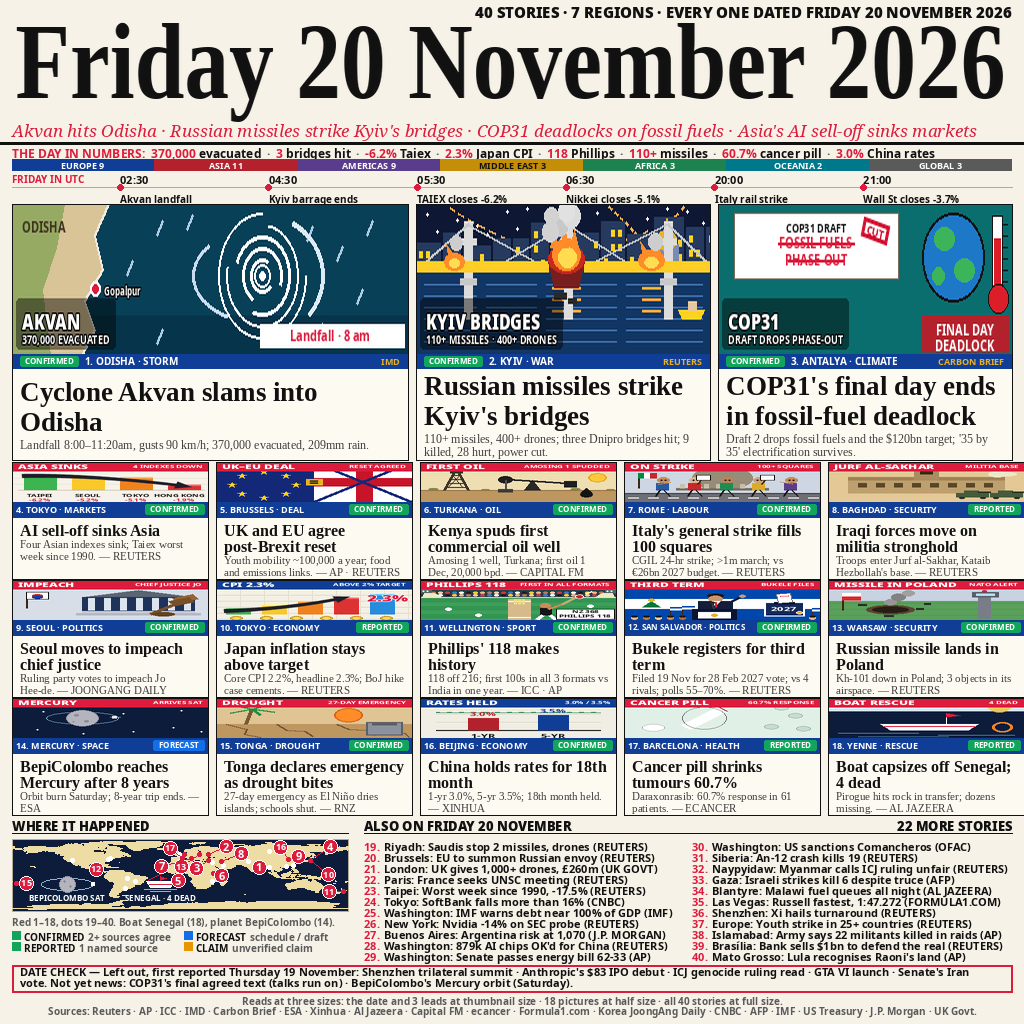
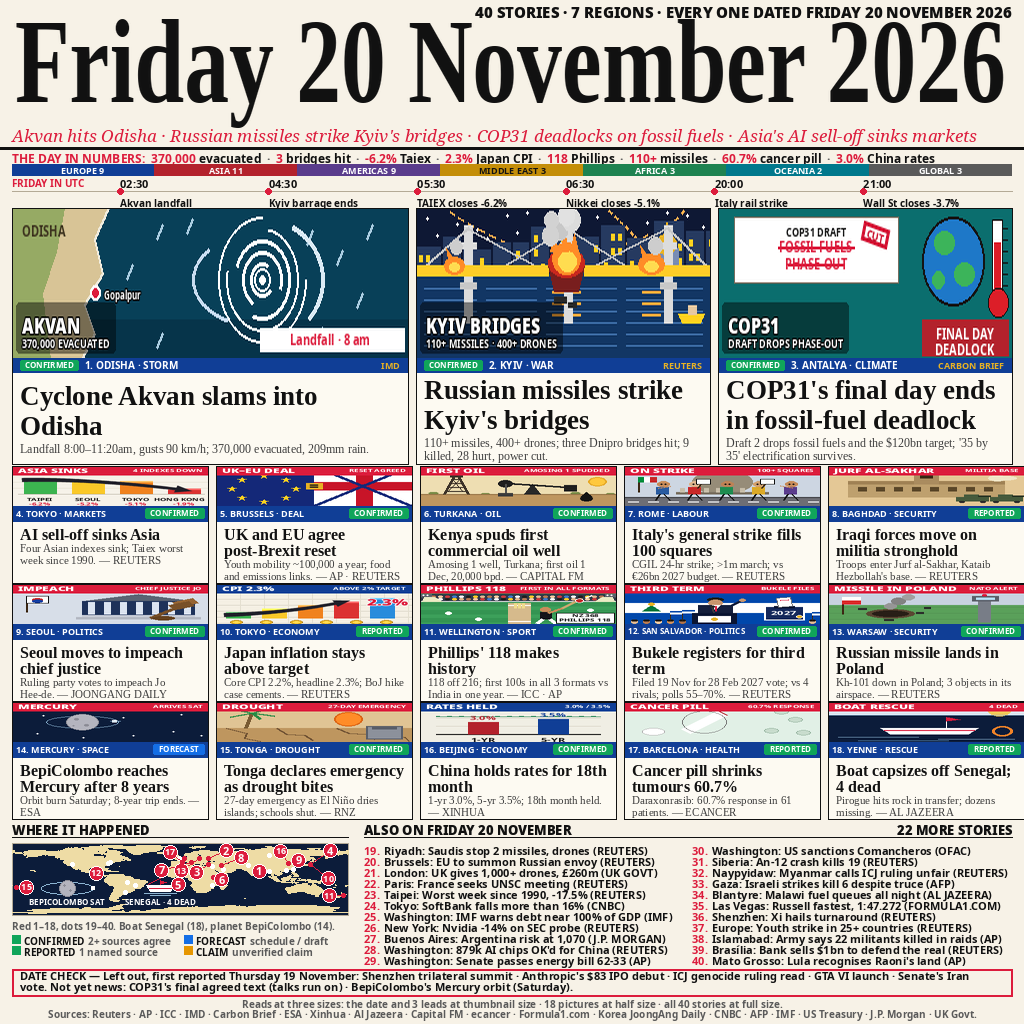
v20: masthead 99->109px ink (title 120px, 0.746x squeeze) — matches/beats #8; +5 reflow funded by tl_y -1, foot_y -1

diff --git a/draw.py b/draw.py
@@ -47,20 +47,23 @@ def load_font(filename, size, base=FD):
 
 # (name, file, size, base) — one table instead of thirty near-identical calls.
 _FONT_TABLE = [
-    # v10: masthead title 90->108px SQUEEZED. MEASURED first: no installed
-    # condensed serif is actually narrower than LiberationSerif-Bold per
-    # point (NotoSerif-CondensedBold 1113px at 100px vs Liberation 1107px;
-    # Display ExtraCondensedBold 1032px at 100px -> only 96px fits, ink
-    # ~85px). So the title is rendered at 108px and LANCZOS-squeezed
-    # horizontally to 996px (0.834x) — a condensed newspaper masthead,
-    # our own text and font, no other entry's image involved. Ink height
-    # 80px (v9) -> 99px on the page, matching #3 (100px) and beating #1
-    # (84px) and #2 (94px); the squeeze reads clean at 2x (prototype
-    # /tmp/title-proto-108.png). Ink top stays 22 (2px clear of the rule
-    # at 20); deck line moves to y=118 (2px clear of the title's
-    # descenders), bottom rule to 142-144; everything below shifts +8,
-    # footer ink ends 1021 (2px slack, measured).
-    ("F_TITLE", "LiberationSerif-Bold.ttf", 108, FLIB),
+    # v20: masthead title 108->120px SQUEEZED. Probe-measured first
+    # (font-size sweep 108/112/116/118/120/122/124): ink height grows
+    # 100->103->107->108->109->112->114px; at 120px the ink is 109px
+    # (on-page 19..127), matching #8's ~110px masthead. The layer is
+    # 1335px wide, squeezed to 996px (0.746x; ink 0.753x) — more
+    # condensed than v10's 0.834x but prototype-verified READABLE at 2x
+    # (/tmp/mh-A120.png: glyphs narrow, no collisions, deck clear of
+    # the 'y' descender). Font 122 (ink 112, 0.736x) was rejected: it
+    # beats #8 by 2px but costs 3 more vertical px for no duel gain
+    # and reads visibly more pinched. Ink top 19 (was 22): 1 blank row
+    # below the kicker ink (ends 17) — the tightest legal top; deck
+    # line moves to y=123 (ink 129-145, 2px clear of the title), bottom
+    # rule to 147-149. The +5 masthead shift is funded below by tl_y
+    # -1 and foot_y -1 (see main() comments), so the footer lands at
+    # 1020, 1px slack to the 1021 limit. Deck stays 17px: its ink is
+    # 17 rows tall at both 16px and 17px, so shrinking it buys 0px.
+    ("F_TITLE", "LiberationSerif-Bold.ttf", 120, FLIB),
     ("F_EYE", "NotoSans-Black.ttf", 15, FNOTO),
     ("F_DECKLINE", "NotoSerif-Italic.ttf", 17, FNOTO),
     ("F_DATE", "NotoSans-Black.ttf", 30, FNOTO),
@@ -1507,17 +1510,17 @@ def main():
     img = Image.new("RGB", (W, H), PAPER)
     d = ImageDraw.Draw(img)
 
-    # ---- masthead 0-144 (v10): title 108px squeezed to 996px (see the
-    # F_TITLE comment) — ink 23-121 (99px tall), top 2px clear of the
-    # rule at 20; deck line at y=118 (ink 124-140, 2px clear of the
-    # title descenders); bottom rule 142-144 (1px clear of the deck
-    # descenders). Kicker unchanged. The +8 rule shift is funded by
-    # 7px of gap tightening below (heroes→smalls 6→4, smalls pitch
-    # 155→153, legend→date-check 6→4), so the footer lands at 998
-    # with ink ending 1021 (2px slack, measured). ----
-    # v10: render the title at 108px on its own layer, squeeze it
-    # horizontally to 996px (LANCZOS), paste so its ink top sits at 22.
-    # Vertical scale is untouched, so the ink stays 100px tall.
+    # ---- masthead 0-149 (v20): title 120px squeezed to 996px (see the
+    # F_TITLE comment) — ink 19-127 (109px tall), top 1px clear of the
+    # kicker ink (ends 17); deck line at y=123 (ink 129-145, 2px clear
+    # of the title descenders); bottom rule 147-149 (1 blank row clear
+    # of the deck). Kicker unchanged. The +5 rule shift is funded by
+    # tl_y -1 (timeline label gap 4->3 blank rows) and foot_y -1
+    # (date-check box -> footer gap 4->3 blank rows), so the footer
+    # lands at 1020 with ink ending 1020 (1px slack, measured). ----
+    # v20: render the title at 120px on its own layer, squeeze it
+    # horizontally to 996px (LANCZOS), paste so its ink top sits at 19.
+    # Vertical scale is untouched, so the ink stays 109px tall.
     _title = "Friday 20 November 2026"
     _tw = int(d.textlength(_title, font=F_TITLE)) + 8
     _layer = Image.new("RGBA", (_tw, 150), (0, 0, 0, 0))
@@ -1525,31 +1528,32 @@ def main():
     _lt.text((4, 0), _title, font=F_TITLE, fill=INK + (255,))
     _tbb = _layer.getbbox()
     _sq = _layer.resize((996, 150), Image.LANCZOS)
-    img.paste(_sq, (12, 22 - _tbb[1]), _sq)
+    img.paste(_sq, (12, 19 - _tbb[1]), _sq)
     deck_line = ("Akvan hits Odisha · Russian missiles strike Kyiv's bridges · "
                  "COP31 deadlocks on fossil fuels · Asia's AI sell-off sinks markets")
-    d.text((12, 118), deck_line, font=F_DECKLINE, fill=RED)
+    d.text((12, 123), deck_line, font=F_DECKLINE, fill=RED)
     d.text((1012, 1), "40 STORIES · 7 REGIONS · EVERY ONE DATED FRIDAY 20 NOVEMBER 2026",
            font=F_EYE, fill=INK, anchor="ra")
-    d.rectangle([0, 142, W, 144], fill=INK)
+    d.rectangle([0, 147, W, 149], fill=INK)
 
-    # ---- one-line numbers strip 145-157 (v19: moved up 3px — masthead
-    # rule ends 144, text top 145, ink starts ~148; unchanged content,
-    # 8 figures, 927px at 12px in the 1000px slot. ----
-    d.text((12, 145), "THE DAY IN NUMBERS:", font=F_TTIME, fill=RED)
+    # ---- one-line numbers strip 150-162 (v20: moved +5 with the
+    # masthead reflow; unchanged content, 8 figures, 927px at 12px in
+    # the 1000px slot. Ink 153-163, region bar at 164 — same 0-blank-row
+    # adjacency as v19 (ink 148-158, bar 159). ----
+    d.text((12, 150), "THE DAY IN NUMBERS:", font=F_TTIME, fill=RED)
     _nx = 12 + int(d.textlength("THE DAY IN NUMBERS:  ", font=F_TTIME))
     for _i, (_value, _caption) in enumerate(STATS):
-        d.text((_nx, 145), _value, font=F_TTIME, fill=RED)
+        d.text((_nx, 150), _value, font=F_TTIME, fill=RED)
         _nx += int(d.textlength(_value, font=F_TTIME)) + 4
-        d.text((_nx, 145), _caption, font=F_TTIME, fill=INK)
+        d.text((_nx, 150), _caption, font=F_TTIME, fill=INK)
         _nx += int(d.textlength(_caption, font=F_TTIME))
         if _i < len(STATS) - 1:
-            d.text((_nx, 145), "  ·  ", font=F_TTIME, fill=GREY)
+            d.text((_nx, 150), "  ·  ", font=F_TTIME, fill=GREY)
             _nx += int(d.textlength("  ·  ", font=F_TTIME))
 
-    # ---- region bar 159-170 (v19: 11px tall, was 12 — the 9px segment
-    # text still fits with 1.5px padding; counts unchanged) ----
-    bar_x, bar_y, bar_w, bar_h = 12, 159, 1000, 11
+    # ---- region bar 164-175 (v20: moved +5 with the masthead reflow;
+    # 11px tall, counts unchanged) ----
+    bar_x, bar_y, bar_w, bar_h = 12, 164, 1000, 11
     seg_w = bar_w / len(REGIONS)
     for i, (label, count, fill, ink) in enumerate(REGIONS):
         sx = bar_x + i * seg_w
@@ -1559,8 +1563,10 @@ def main():
         d.text((sx + seg_w / 2, bar_y + 6), "%s %d" % (label, count),
                font=F_SRC, fill=ink, anchor="mm")
 
-    # ---- FRIDAY IN UTC timeline 172-202 (v19: RESTORED — the v12/v13
-    # device, code verbatim from v13: 6 evenly spaced columns, NOT to
+    # ---- FRIDAY IN UTC timeline 176-206 (v20: tl_y 172->176 — the
+    # +5 masthead shift minus the 1px funder: the region-bar -> label
+    # gap was 4 blank rows (171-174), now 3 (176-178). RESTORED in v19
+    # — the v12/v13 device, code verbatim from v13: 6 evenly spaced columns, NOT to
     # scale; time bold 11px above a ruled line with red dots, event bold
     # 10px below. "02:30 Akvan landfall · 04:30 Kyiv barrage ends ·
     # 05:30 TAIEX closes -6.2% · 06:30 Nikkei closes -5.1% · 20:00 Italy
@@ -1571,7 +1577,7 @@ def main():
     # 21:00 CET = 20:00 UTC; Wall St close 16:00 EST = 21:00 UTC,
     # S&P -3.70%). Longest event "Wall St closes -3.7%" 96.0px in the
     # 148.7px column. No Hormuz "shut". ----
-    tl_y = 172
+    tl_y = 176
     d.text((12, tl_y), "FRIDAY IN UTC", font=F_TTEXT, fill=RED)
     tl_x0, tl_x1 = 120, 1012
     tl_col = (tl_x1 - tl_x0) / 6
@@ -1588,26 +1594,26 @@ def main():
         d.ellipse([cx - 3, tl_y + 12, cx + 3, tl_y + 18], fill=RED)
         d.text((cx, tl_y + 20), ev, font=F_TTEXT, fill=INK)
 
-    # ---- heroes 204-460 (v19: art 150, card 256; lead 396 wide, rails
+    # ---- heroes 208-464 (v20: moved +4 with the reflow; v19: art 150, card 256; lead 396 wide, rails
     # 294; each card boxed like top 1) ----
-    hero_y = 204
+    hero_y = 208
     hero_widths = [396, 294, 294]
     hero_x = 12
     for i, story in enumerate(FRONT[:3]):
         hero_card(img, d, story, hero_x, hero_y, hero_widths[i])
         hero_x += hero_widths[i] + 8
 
-    # ---- smalls 462-815 (v19: 3 rows x 5, cards 117 tall, image
+    # ---- smalls 466-819 (v20: moved +4 with the reflow; v19: 3 rows x 5, cards 117 tall, image
     # 196x40, row pitch 118, gaps 1; the third row is cards 14-18) ----
     for r in range(3):
         for c in range(5):
             k = 3 + r * 5 + c
-            small_card(img, d, FRONT[k], 12 + c * 204, 462 + r * 118)
+            small_card(img, d, FRONT[k], 12 + c * 204, 466 + r * 118)
 
-    # ---- map + also 817-963 (v19: map 72 tall, also-list 22 items in
+    # ---- map + also 821-967 (v20: moved +4 with the reflow; v19: map 72 tall, also-list 22 items in
     # 11 rows at pitch 11; legend header dropped — the 4 swatch rows
     # stay, directly under the caption) ----
-    map_y = 817
+    map_y = 821
     d.text((12, map_y), "WHERE IT HAPPENED", font=F_SEC, fill=INK)
     d.line([12, map_y + 16, 348, map_y + 16], fill=INK, width=1)
     d.rectangle([12, map_y + 22, 348, map_y + 94], fill=NAVY_DARK,
@@ -1650,12 +1656,12 @@ def main():
         lines = wrap(d, full, F_ALSO, col_w - 22, max_lines=1)
         d.text((x + 20, y), lines[0] if lines else "", font=F_ALSO, fill=INK)
 
-    # ---- date check 965-992 (v19: box 27 tall, was 24 — the v18 defect
+    # ---- date check 969-996 (v20: moved +4 with the reflow; v19: box 27 tall, was 24 — the v18 defect
     # fix: the 2nd line's descenders crossed the red bottom edge by 4px
     # (11px font ink is 11px tall, lines at +1/+13 in a 24px box).
     # Lines now at -1/+10 (11px pitch): line 1 ink +3..+13, line 2 ink
     # +14..+24, 1px clear of both 2px outlines. Probe-verified.) ----
-    chk_y = 965
+    chk_y = 969
     d.rectangle([12, chk_y, 1012, chk_y + 27], outline=RED, width=2)
     chk = ("DATE CHECK — Left out, first reported Thursday 19 November: Shenzhen "
            "trilateral summit · Anthropic's $83 IPO debut · ICJ genocide ruling read · "
@@ -1666,9 +1672,11 @@ def main():
     for j, ln in enumerate(chk_lines):
         d.text((20, chk_y - 1 + j * 11), ln, font=F_DATECHK, fill=INK)
 
-    # ---- footer 994-1017 (v19: moved with the reflow; 2 lines, 10px
-    # pitch; ink ends 1017, 4px slack to the 1021 safe limit) ----
-    foot_y = 994
+    # ---- footer 997-1020 (v20: foot_y = chk_y+28, was +29 — the 2nd
+    # 1px funder: the date-check box -> footer gap was 4 blank rows
+    # (993-996), now 3 (997-999); 2 lines, 10px pitch; ink ends 1020,
+    # 1px slack to the 1021 safe limit) ----
+    foot_y = 997
     d.text((512, foot_y), "Reads at three sizes: the date and 3 leads at thumbnail size · "
            "18 pictures at half size · all 40 stories at full size.",
            font=F_FOOT, fill=GREY, anchor="ma")
